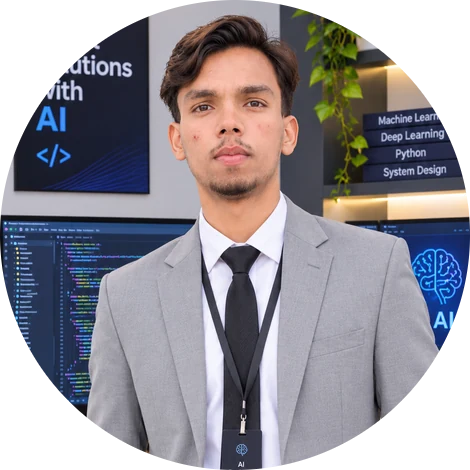
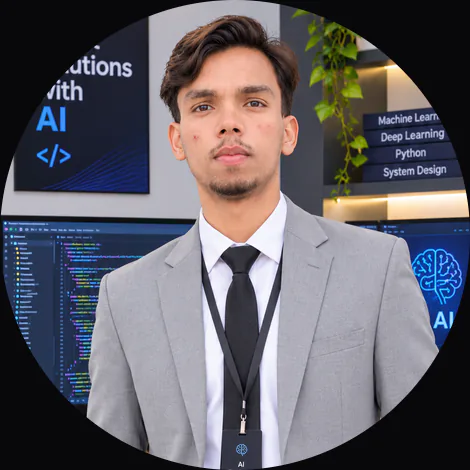
Accessibility and performance pass

diff --git a/seo-plugin.js b/seo-plugin.js
@@ -85,10 +85,29 @@ const FONT_RE = /^(inter|space-grotesk)-latin-wght-normal-.+\.woff2$/
 function discoverAssets(outDir) {
   const indexHtml = fs.readFileSync(path.join(outDir, 'index.html'), 'utf8')
   const files = fs.existsSync(path.join(outDir, 'assets')) ? fs.readdirSync(path.join(outDir, 'assets')) : []
-  const css = [...indexHtml.matchAll(/<link rel="stylesheet"[^>]*>/g)].map((m) => m[0])
+  const linkTags = [...indexHtml.matchAll(/<link rel="stylesheet"[^>]*>/g)].map((m) => m[0])
+  // Performance: inline the (small, ~8 KB gzip) stylesheet so it is never a render-blocking request.
+  const cssTexts = linkTags.map((tag) => {
+    const href = tag.match(/href="([^"]+)"/)?.[1]
+    const file = href && path.join(outDir, href.replace(/^\//, ''))
+    return file && fs.existsSync(file) ? fs.readFileSync(file, 'utf8') : null
+  })
+  let inlineCss = linkTags.length && cssTexts.every((t) => t != null) ? `<style>${cssTexts.join('\n')}</style>` : null
+  if (!inlineCss) {
+    // Home page already optimised (e.g. plugin ran twice): fall back to the built stylesheet(s) in dist/assets.
+    const cssFiles = files.filter((f) => f.endsWith('.css'))
+    if (cssFiles.length) inlineCss = `<style>${cssFiles.map((f) => fs.readFileSync(path.join(outDir, 'assets', f), 'utf8')).join('\n')}</style>`
+  }
+  const css = inlineCss ? [inlineCss] : linkTags
   const fonts = files.filter((f) => FONT_RE.test(f)).map((f) => `<link rel="preload" href="/assets/${f}" as="font" type="font/woff2" crossorigin />`)
-  const profile = files.find((f) => /^profile-.+\.webp$/.test(f))
-  return { headHtml: [...fonts, ...css].join('\n'), preloadHtml: fonts.join('\n'), profileImg: profile ? `/assets/${profile}` : null }
+  const profile = files.find((f) => /^profile-[\w-]{8}\.webp$/.test(f))
+  return {
+    headHtml: [...fonts, ...css].join('\n'),
+    preloadHtml: fonts.join('\n'),
+    linkTags,
+    inlineCss,
+    profileImg: profile ? `/assets/${profile}` : null,
+  }
 }
 
 const devAssets = {
@@ -124,14 +143,19 @@ export default function seoPlugin() {
       const lastmod = new Date().toISOString().slice(0, 10)
       const assets = discoverAssets(outDir)
 
-      // 1. preload critical fonts on the home page too
+      // 1. home page: inline the CSS, preload critical fonts + hero portrait
       const homeFile = path.join(outDir, 'index.html')
-      const home = fs.readFileSync(homeFile, 'utf8')
-      if (assets.preloadHtml && !home.includes('rel="preload" href="/assets/inter-latin')) {
+      let home = fs.readFileSync(homeFile, 'utf8')
+      if (!home.includes('data-seo-optimised')) {
+        if (assets.inlineCss) {
+          assets.linkTags.forEach((tag, i) => { home = home.replace(tag, () => (i === 0 ? assets.inlineCss : '')) })
+        }
         // The hero portrait is drawn by React, so the browser would only discover it after the JS bundle runs.
-        // Preloading it (27 KB WebP) lets it download in parallel and improves LCP.
-        const heroPreload = assets.profileImg ? `\n<link rel="preload" as="image" type="image/webp" href="${assets.profileImg}" fetchpriority="high" />` : ''
-        fs.writeFileSync(homeFile, home.replace('</head>', `${assets.preloadHtml}${heroPreload}\n</head>`))
+        // Preloading it lets it download in parallel and improves LCP.
+        const heroPreload = assets.profileImg ? `<link rel="preload" as="image" type="image/webp" href="${assets.profileImg}" fetchpriority="high" />` : ''
+        const extra = [assets.preloadHtml, heroPreload, '<meta name="seo-optimised" data-seo-optimised content="1" />'].filter(Boolean).join('\n')
+        home = home.replace('</head>', () => `${extra}\n</head>`)
+        fs.writeFileSync(homeFile, home)
       }
 
       // 2. generate every other page (service pages, blog, about, contact, portfolio, 404)

diff --git a/site/layout.js b/site/layout.js
@@ -129,10 +129,10 @@ ${footer()}${scripts}
 export const wrap = (inner, w = 'max-w-4xl') => `<div class="mx-auto ${w} px-5">${inner}</div>`
 
 export function breadcrumbs(crumbs) {
-  return `<nav aria-label="Breadcrumb" class="text-sm text-zinc-500"><ol class="flex flex-wrap items-center gap-2">${crumbs
+  return `<nav aria-label="Breadcrumb" class="text-sm text-zinc-400"><ol class="flex flex-wrap items-center gap-2">${crumbs
     .map((c, i) =>
       i === crumbs.length - 1
-        ? `<li aria-current="page" class="text-zinc-400">${esc(c.name)}</li>`
+        ? `<li aria-current="page" class="text-zinc-300">${esc(c.name)}</li>`
         : `<li><a href="${c.path}" class="hover:text-white">${esc(c.name)}</a></li><li aria-hidden="true">/</li>`,
     )
     .join('')}</ol></nav>`

diff --git a/src/index.css b/src/index.css
@@ -13,6 +13,8 @@
   --color-accent: #f5c451;
   --color-accent-2: #fde68a;
   --color-accent-3: #fb923c;
+  /* Accessibility: Tailwind's default zinc-500 is only ~4:1 on this dark background; this keeps the same look at >=5:1 */
+  --color-zinc-500: #8e8e97;
 }
 
 html { scroll-behavior: smooth; scroll-padding-top: 5rem; }
